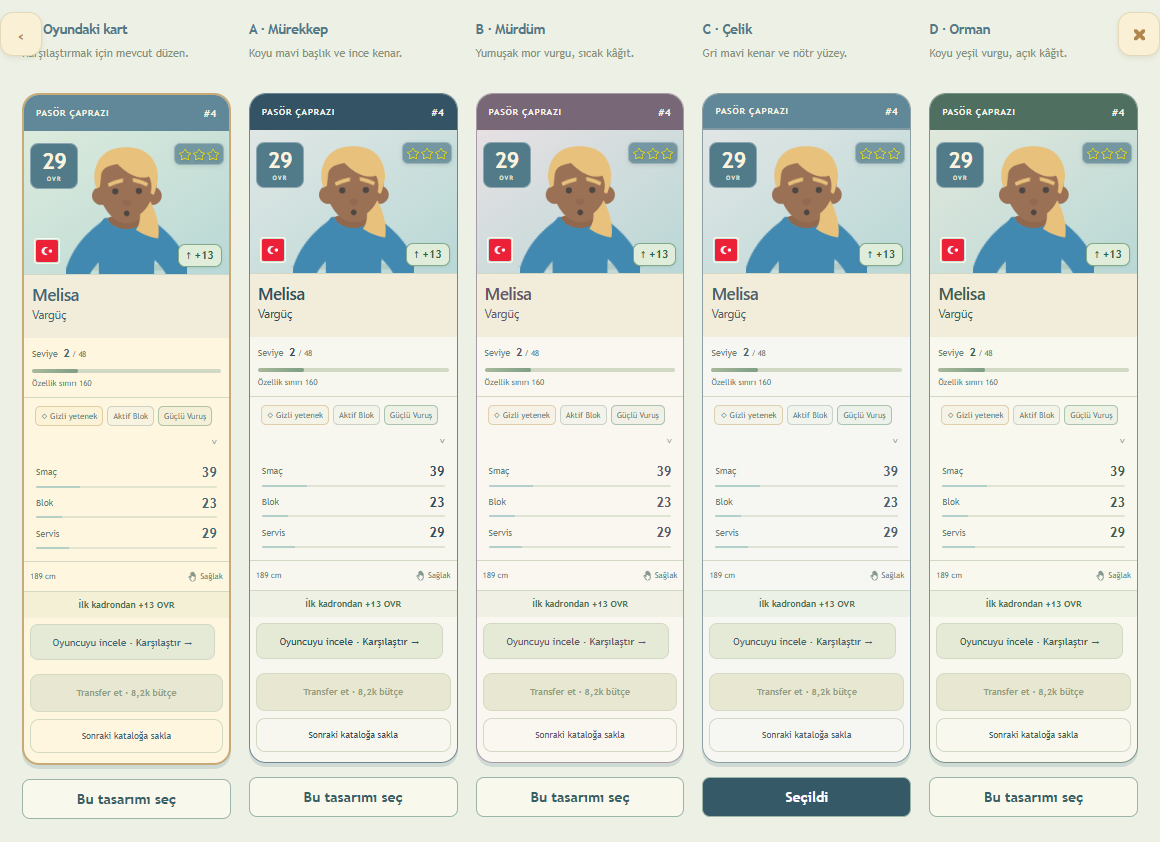
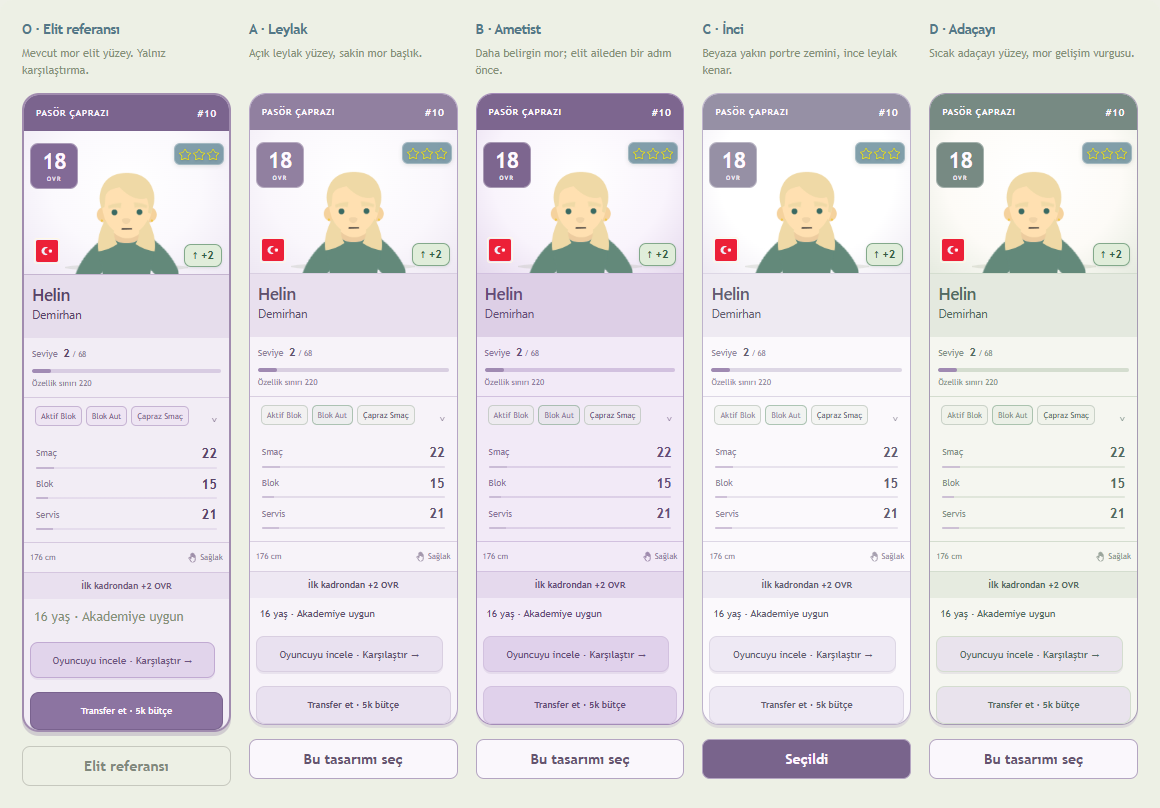
Refresh design lab with young-potential card alternatives

diff --git a/index.html b/index.html
@@ -18,4 +18,4 @@
 <span id="saveStatus" hidden></span></aside></div>
 <section id="teamPanel" hidden aria-labelledby="teamTitle"><div class="team-heading"><div><span class="eyebrow">KADRO KOLEKSİYONU</span><h1 id="teamTitle">Bizim takım</h1></div><span class="team-count" id="teamCount">7 / 7</span></div><section class="team-blackboard" aria-labelledby="blackboardTitle"><span class="eyebrow">MAÇ HAZIRLIĞI</span><h2 id="blackboardTitle">Kara Tahta</h2><aside id="blackboardAdvice" class="blackboard-advice" aria-live="polite"></aside></section><section id="campPanel" class="camp-panel" hidden aria-labelledby="campTitle"><div class="camp-heading"><h2 id="campTitle">Antrenman Kampı</h2><span id="campWallet"></span></div><p id="campStatus" role="status"></p><div id="campSlots" class="camp-slots"></div><div id="campSelection" hidden><p>Kampa göndereceğin oyuncuyu seç.</p><div id="campCandidates" class="camp-candidates"></div><p id="campQuote"></p><button id="campEnroll" class="team-action" type="button" disabled>Kampa gönder</button></div><p id="campNotice" role="status"></p></section><div class="lineup-banner"><strong>MAÇ KADROSU</strong><span>6 oyuncu + libero</span></div><div id="activeTeam" class="team-grid"></div><section id="benchSection"><div class="bench-heading"><h2>Yedek kulübesi</h2><span id="benchCount"></span></div><label class="bench-filter">Pozisyon <select id="benchFilter"><option value="all">Tüm oyuncular</option><option value="setter">Pasör</option><option value="outside">Smaçör</option><option value="opposite">Pasör çaprazı</option><option value="middle">Orta oyuncu</option><option value="libero">Libero</option></select></label><div id="benchCards" class="team-grid"></div><p id="benchEmpty" hidden>Bu pozisyonda yedek oyuncu yok.</p></section><p id="teamNotice" role="status"></p></section><section id="leaguePanel" hidden><div class="team-heading"><div><span class="eyebrow">MAHALLE SPOR KULÜBÜ – YEREL ALTYAPI</span><h1>Lig Merkezi</h1></div><button id="calendarNow" class="calendar-now" hidden>Bugün</button></div><section class="season-hero"><span class="eyebrow">YEREL ALTYAPI · SEZON 0</span><h2>Mahallenin son umudu</h2><div class="season-facts"><span>8 takım</span><span>Son 5 maç</span><span>Hedef: ilk 4</span></div><div class="season-scoreline"><strong id="seasonPlace">—</strong><span>SIRALAMA<small id="seasonWins">0 galibiyet</small></span><strong id="seasonPoints">0</strong><span>PUAN<small id="seasonPlayed">0 / 5 maç</small></span></div><progress id="seasonProgress" value="0" max="5" aria-label="Tamamlanan kurtuluş maçları"></progress><p id="seasonStatus"></p></section><section id="prologueComplete" class="prologue-complete" hidden role="status"><span>✓</span><div><strong>Prolog tamamlandı!</strong><p id="prologueOutcome">Son beş maç tamamlandı.</p><small>Sezon sonuçları aşağıda.</small></div><button id="leagueJourneyButton" class="league-journey-button" type="button" hidden><span>Sıradaki lige geç</span><b aria-hidden="true">↗</b></button></section><p id="leagueSaveNotice" role="status"></p><div class="season-tabs" role="tablist" aria-label="Lig görünümü"><button id="standingsTab" type="button" role="tab" aria-selected="true" aria-controls="standingsPane">Puan durumu</button><button id="fixturesTab" type="button" role="tab" aria-selected="false" aria-controls="fixturesPane" tabindex="-1">Fikstür</button><button id="playersTab" type="button" role="tab" aria-selected="false" aria-controls="playersPane" tabindex="-1">Oyuncular</button><button id="datesTab" type="button" role="tab" aria-selected="false" aria-controls="datesPane" tabindex="-1">Takvim</button></div><section id="playersPane" role="tabpanel" aria-labelledby="playersTab" hidden></section><section id="standingsPane" role="tabpanel" aria-labelledby="standingsTab"><div class="standings-heading"><h2>Lig sıralaması</h2><span id="standingsState">Sezon başlıyor</span></div><div class="standings-scroll"><table class="standings-table"><caption class="sr-only">Mahalle Spor Kulübü – Yerel Altyapı puan durumu</caption><thead><tr><th scope="col">#</th><th scope="col">Takım</th><th scope="col"><abbr title="Oynanan">O</abbr></th><th scope="col"><abbr title="Galibiyet">G</abbr></th><th scope="col"><abbr title="Mağlubiyet">M</abbr></th><th scope="col">P</th></tr></thead><tbody id="standingsRows"></tbody></table></div><p class="league-rule-note">Galibiyet: 3 puan. Mağlubiyet: 0 puan. Eşitlik sırası: galibiyet, sayı farkı, atılan sayı. Hepsi eşitse sıra paylaşılır.</p><p id="standingsPending" class="league-rule-note"></p></section><section id="fixturesPane" role="tabpanel" aria-labelledby="fixturesTab" hidden><h2 class="season-route-title">Kulübün sezon yolu</h2><div id="seasonRoute" class="season-route"></div><div class="round-controls"><button id="previousRound" type="button" aria-label="Önceki hafta">‹</button><div><strong id="roundLabel"></strong><small id="roundDate"></small></div><button id="nextRound" type="button" aria-label="Sonraki hafta">›</button></div><div id="roundFixtures"></div></section><section id="datesPane" role="tabpanel" aria-labelledby="datesTab" hidden><p id="leagueToday" class="team-hint"></p><div class="month-panel"><div class="month-controls"><button id="previousMonth" aria-label="Önceki ay">‹</button><h2 id="leagueMonth"></h2><button id="nextMonth" aria-label="Sonraki ay">›</button></div><div class="weekday-labels"><span>Pzt</span><span>Sal</span><span>Çar</span><span>Per</span><span>Cum</span><span>Cmt</span><span>Paz</span></div><div id="leagueDates"></div><div class="month-legend"><span>● Lig maçları</span><span>Çerçeve: bugün</span></div></div><div class="bench-heading"><h2 id="fixtureDate"></h2><span>FİKSTÜR</span></div><div id="fixtureList"></div><p id="noFixtures" class="team-hint"></p></section></section></main></div></div>
 <nav class="mobile-nav" aria-label="Mobil gezinme"><a href="#clubPanel"><span>⌂</span>Kulüp</a><a id="teamTab" href="#teamPanel"><span>♟</span>Takım</a><a id="calendarTab" href="#leaguePanel"><span>▦</span>Lig<small id="leagueNavStatus"></small></a></nav><dialog id="seasonEndDialog" class="season-end-dialog" aria-labelledby="seasonEndTitle"><span class="season-trophy" aria-hidden="true"><svg viewBox="0 0 64 64" fill="none" aria-hidden="true"><path d="M18 8h28v15a14 14 0 0 1-28 0V8Z" fill="currentColor"/><path d="M18 12H8v7c0 9 5 14 14 14M46 12h10v7c0 9-5 14-14 14" stroke="currentColor" stroke-width="5" stroke-linejoin="round"/><path d="M29 36h6v13h-6zM20 49h24v6H20zM16 55h32v5H16z" fill="currentColor"/><path d="m32 13 2 5 5 .4-4 3.4 1.3 5.2-4.3-2.8-4.3 2.8 1.3-5.2-4-3.4 5-.4 2-5Z" fill="#fff4d4"/></svg></span><p class="eyebrow">İLK SEZON TAMAMLANDI</p><h2 id="seasonEndTitle">Prolog bitti!</h2><p id="seasonEndText"></p><div class="season-end-stats"><div><strong id="endRankValue"></strong><small>SIRA</small></div><div><strong id="endWinValue"></strong><small>GALİBİYET</small></div><div><strong id="endPointsValue"></strong><small>PUAN</small></div></div><button id="inspectSeason" class="team-action" type="button">Sezonu incele</button><button id="closeSeasonEnd" class="team-secondary" type="button">Kulübe dön</button></dialog><div id="rewardLayer" aria-hidden="true"></div><span id="tapRhythm" aria-hidden="true"></span><div id="toast" class="toast" role="status" aria-live="polite"></div><dialog id="matchDialog"><button id="closeMatch" class="close-dialog" aria-label="Kapat">×</button><div class="match-emblem">↗</div><p class="eyebrow">BUGÜN SAHNE SENİN</p><h2>Maç günü!</h2><p id="matchMessage">Kadronu seç ve maça başla.</p><button id="laterMatch" class="dialog-later">Kulüpte devam et</button></dialog>
-<dialog id="roomDialog"><button id="closeRoom" class="close-dialog" aria-label="Kapat">×</button><p class="eyebrow">YENİ BLOK</p><h2>Bu alan senin.</h2><p id="roomSelectionInfo"></p><div id="roomChoices"></div><p class="room-modal-note">Yükseltmek için kurulu bloğa dokun.</p></dialog><dialog id="settingsDialog"><button id="closeSettings" class="close-dialog" aria-label="Kapat">×</button><h2>Ayarlar</h2><div class="settings-row"><span>Hızlı Test (Saniyede 100x Tıklama)</span><button id="testAutoclicker" class="team-action" type="button" style="margin:0;padding:4px 12px">Başlat</button></div><div class="settings-row"><span>Tüm sesler</span><button id="soundToggle" class="sound-toggle" type="button" aria-label="Efekt seslerini kapat" aria-pressed="true">♪</button></div><div class="settings-row"><span>Titreşim</span><button id="vibrationToggle" class="sound-toggle vibration-toggle" type="button" aria-label="Titreşimi kapat" aria-pressed="true">Açık</button></div><label class="settings-row">Müzik <input id="volume-music" type="range" min="0" max="100" aria-label="Müzik seviyesi"></label><label class="settings-row">Tribün <input id="volume-crowd" type="range" min="0" max="100" aria-label="Tribün seviyesi"></label><label class="settings-row">Top sesleri <input id="volume-effects" type="range" min="0" max="100" aria-label="Top sesleri seviyesi"></label><div class="reset-section"><button id="resetProgress" class="reset-progress" type="button">İlerlemeyi sıfırla</button><p>Kayıtları ve ayarları siler. Oyun baştan başlar.</p></div></dialog><dialog id="gameMatchDialog" class="game-match-dialog"><div class="match-shellbar"><button id="exitGameMatch" class="match-exit" title="Kalan maçı hesapla ve sonucu göster">Maçı atla</button></div><section id="matchWatchPrompt" class="match-watch-prompt" hidden><span class="eyebrow">MAÇ GÜNÜ</span><h2>Maça hazır mısın?</h2><p>Maç öncesi kadronu kontrol et.</p><div id="preMatchStage"></div><div id="preMatchPicker" hidden></div><p id="preMatchNotice" role="status"></p><button id="editMatchTeam" class="team-secondary" type="button" hidden aria-label="Kadroyu düzenle"></button><button id="watchMatch" class="team-action">Kadroyu onayla · Maçı izle</button><button id="skipMatch" class="team-secondary">Sonucu göster</button></section><iframe id="gameMatchFrame" title="Voleybol maçı"></iframe></dialog><dialog id="playerDialog"><button id="closePlayer" class="close-dialog" aria-label="Kapat">×</button><span id="playerRole" class="eyebrow"></span><h2 id="playerName"></h2><img id="detailArt" alt=""><details id="playerAttributes" open><summary>Tüm özellikler</summary><div id="playerStats"></div></details><section class="development-panel"><div class="development-heading"><h3>Oyuncu gelişimi</h3><b id="trainingBalance">0 AP</b></div><p class="development-note">AP ile kartını yükselt.</p><div id="trainingStats"></div><section><h3>Voleybol yetenekleri</h3><div id="playerSkills"></div></section><p id="trainingNotice" role="status"></p></section><label class="equip-label">Kadro slotu<select id="equipSlot"></select></label><button id="equipPlayer" class="team-action">Kadroya al</button><button id="benchPlayer" class="team-secondary">Yedeğe al</button></dialog><dialog id="renameDialog"><form id="renameForm"><h2>Oyuncu adı</h2><input id="renameId" type="hidden"><label class="equip-label">Ad<input id="firstName" maxlength="24" required autocomplete="off"></label><label class="equip-label">Soyad<input id="lastName" maxlength="24" required autocomplete="off"></label><button class="team-action" type="submit">Kaydet</button><button id="cancelRename" class="team-secondary" type="button">Vazgeç</button></form></dialog><script src="team-asset-data.js?v=b7756503f39e"></script><script src="hair-colors.js?v=abe7abc4d901"></script><script src="country-name-data.js?v=cc0064760737"></script><script src="country-rules.js?v=73bc7aad9157"></script><script src="club-country-data.js?v=9c3da58d9b15"></script><script src="team-appearance.js?v=62a57122f8ec"></script><script src="elite-looks.js?v=f61e7b01cd55"></script><script src="social-journey-rules.js?v=cd50bd289df6"></script><script src="camp-rules.js?v=8d413f47fe6c"></script><script src="player-skills.js?v=105e670511c2"></script><script src="rival-styles.js?v=a43c42c91007"></script><script src="team-rules.js?v=aa3de59c3d1d"></script><script src="card-upgrade.js?v=833315b60951"></script><script src="player-skill-ui.js?v=3016ae06be86"></script><script src="team.js?v=43ed9f2953e8"></script><script src="match-rules.js?v=af214ea4e2ed"></script><script src="league-rules.js?v=72a9a5ea7aa8"></script><script src="league-calendar.js?v=d84ac7d3d781"></script><script src="league-season.js?v=6d6c07347769"></script><script src="slot-chime.js?v=b0a8b8586383"></script><script src="game-audio.js?v=98a6ba18b588"></script><script src="card-motion.js?v=87f8bcc3a05d"></script><script src="bal-visual.js?v=07a9449cb5b6"></script><script src="bal-rules.js?v=60f18456b5ca"></script><script src="scout-rules.js?v=771f76d9e8fb"></script><script src="shift-rules.js?v=a33a4ab2512c"></script><script src="overtime-rules.js?v=11a5f31757e3"></script><script src="academy-career-rules.js?v=829bbd3d214a"></script><script src="room-rules.js?v=f146eafaeecb"></script><script src="foundation-blocks.js?v=58566611813d"></script><script src="rooms.js?v=0b1530b8ac5f"></script><script src="menu-state.js?v=dd9f6dcb1b38"></script><script src="menu-feedback.js?v=088759698253"></script><script src="pre-match.js?v=16668a840b99"></script><script src="match-intro.js?v=271fc707f1b7"></script><script src="match-screen-awake.js?v=9c137f7942d2"></script><script src="match-gateway.js?v=1bcfa1570e15"></script><script src="legendary-unlock-preview.js?v=2eab31424c5d"></script><script src="camps.js?v=6e5d06f04cf6"></script><script src="flow-lanes.js?v=76419d083d78"></script><script src="menu.js?v=bedc9dc5ecb4"></script><script src="board-doodles.js?v=b3e832e167b9"></script><script src="board-presentation.js?v=7c6752ae1d6e"></script><script src="blackboard.js?v=74b17ca96a53"></script><dialog id="resetDialog"><h2>Baştan başlayalım mı?</h2><p>Tüm ilerlemen ve ayarların silinecek. Bu işlem geri alınamaz.</p><button id="confirmReset" class="reset-progress" type="button">Evet, ilerlemeyi sıfırla</button><button id="cancelReset" class="team-secondary" type="button">Vazgeç</button><p id="resetError" role="alert"></p></dialog><script src="reset-progress.js?v=5c10df8659cd"></script><script src="boot.js?v=d6b5180b3915"></script><script src="point-music-data.js?v=c17f7544278b"></script><script src="match-court-surface.js?v=57b3f03b5b57"></script><script src="ui-components.js?v=24cc8586e565"></script><script src="court-picker.js?v=cda5867da7ac"></script><script src="volleyball-balls.js?v=cf69563ec0ad"></script><script src="player-profile.js?v=a02d065076a0"></script><script src="onboarding.js?v=246a17873d9a"></script><script src="crest-symbols-data.js?v=57c7d58a002d"></script><script src="club-journey.js?v=f5f786ae034c"></script><script src="bal-stage.js?v=cea6cc931452"></script><script src="scouting.js?v=eec202fa935e"></script><script src="match-arrival.js?v=cc0073355527"></script><script src="club-pan.js?v=e716b8bb87de"></script><script src="settings-ui.js?v=6e1a8e9fcb46"></script><script src="achievement-stage-metrics.js?v=bb98236606b0"></script><script src="achievements.js?v=8a557c4d81a3"></script><script src="social-studio-rules.js?v=848defa4495b"></script><script src="social-studio.js?v=56b1ce26036e"></script><script src="social-journey.js?v=0ec2ea07be91"></script><script src="social-follower-counter.js?v=9d657ccee2d2"></script><script src="social-like-counter.js?v=6d885d3d4a18"></script><script src="division-three.js?v=8c4ee44965b0"></script><script src="league-players.js?v=13030979f079"></script><script src="stage-test.js?v=9d85c0e50659"></script><script src="epic-team.js?v=73c58df320e2"></script><script src="next-match-card.js?v=44d61d1106d7"></script><script src="tutorial-review.js?v=cf8af4919f5f"></script><script src="ui-icons-data.js?v=6804bbcfcd59"></script><script src="ui-icons.js?v=fc006f2718db"></script><script src="progression-visuals.js?v=6649a6630506"></script><script src="flow-preview-runtime.js?v=baedb2ade5ad"></script><script src="elite-design-preview.js?v=7abe5ee752d7"></script><script src="academy-rules.js?v=028240ae77fa"></script><script src="academy-ball-picker.js?v=d6e6410723f6"></script><script src="academy-preview.js?v=c08fed03dc41"></script><script src="first-league.js?v=3414604357e8"></script><script src="academy-career.js?v=d70b9c872f27"></script></body></html>
+<dialog id="roomDialog"><button id="closeRoom" class="close-dialog" aria-label="Kapat">×</button><p class="eyebrow">YENİ BLOK</p><h2>Bu alan senin.</h2><p id="roomSelectionInfo"></p><div id="roomChoices"></div><p class="room-modal-note">Yükseltmek için kurulu bloğa dokun.</p></dialog><dialog id="settingsDialog"><button id="closeSettings" class="close-dialog" aria-label="Kapat">×</button><h2>Ayarlar</h2><div class="settings-row"><span>Hızlı Test (Saniyede 100x Tıklama)</span><button id="testAutoclicker" class="team-action" type="button" style="margin:0;padding:4px 12px">Başlat</button></div><div class="settings-row"><span>Tüm sesler</span><button id="soundToggle" class="sound-toggle" type="button" aria-label="Efekt seslerini kapat" aria-pressed="true">♪</button></div><div class="settings-row"><span>Titreşim</span><button id="vibrationToggle" class="sound-toggle vibration-toggle" type="button" aria-label="Titreşimi kapat" aria-pressed="true">Açık</button></div><label class="settings-row">Müzik <input id="volume-music" type="range" min="0" max="100" aria-label="Müzik seviyesi"></label><label class="settings-row">Tribün <input id="volume-crowd" type="range" min="0" max="100" aria-label="Tribün seviyesi"></label><label class="settings-row">Top sesleri <input id="volume-effects" type="range" min="0" max="100" aria-label="Top sesleri seviyesi"></label><div class="reset-section"><button id="resetProgress" class="reset-progress" type="button">İlerlemeyi sıfırla</button><p>Kayıtları ve ayarları siler. Oyun baştan başlar.</p></div></dialog><dialog id="gameMatchDialog" class="game-match-dialog"><div class="match-shellbar"><button id="exitGameMatch" class="match-exit" title="Kalan maçı hesapla ve sonucu göster">Maçı atla</button></div><section id="matchWatchPrompt" class="match-watch-prompt" hidden><span class="eyebrow">MAÇ GÜNÜ</span><h2>Maça hazır mısın?</h2><p>Maç öncesi kadronu kontrol et.</p><div id="preMatchStage"></div><div id="preMatchPicker" hidden></div><p id="preMatchNotice" role="status"></p><button id="editMatchTeam" class="team-secondary" type="button" hidden aria-label="Kadroyu düzenle"></button><button id="watchMatch" class="team-action">Kadroyu onayla · Maçı izle</button><button id="skipMatch" class="team-secondary">Sonucu göster</button></section><iframe id="gameMatchFrame" title="Voleybol maçı"></iframe></dialog><dialog id="playerDialog"><button id="closePlayer" class="close-dialog" aria-label="Kapat">×</button><span id="playerRole" class="eyebrow"></span><h2 id="playerName"></h2><img id="detailArt" alt=""><details id="playerAttributes" open><summary>Tüm özellikler</summary><div id="playerStats"></div></details><section class="development-panel"><div class="development-heading"><h3>Oyuncu gelişimi</h3><b id="trainingBalance">0 AP</b></div><p class="development-note">AP ile kartını yükselt.</p><div id="trainingStats"></div><section><h3>Voleybol yetenekleri</h3><div id="playerSkills"></div></section><p id="trainingNotice" role="status"></p></section><label class="equip-label">Kadro slotu<select id="equipSlot"></select></label><button id="equipPlayer" class="team-action">Kadroya al</button><button id="benchPlayer" class="team-secondary">Yedeğe al</button></dialog><dialog id="renameDialog"><form id="renameForm"><h2>Oyuncu adı</h2><input id="renameId" type="hidden"><label class="equip-label">Ad<input id="firstName" maxlength="24" required autocomplete="off"></label><label class="equip-label">Soyad<input id="lastName" maxlength="24" required autocomplete="off"></label><button class="team-action" type="submit">Kaydet</button><button id="cancelRename" class="team-secondary" type="button">Vazgeç</button></form></dialog><script src="team-asset-data.js?v=b7756503f39e"></script><script src="hair-colors.js?v=abe7abc4d901"></script><script src="country-name-data.js?v=cc0064760737"></script><script src="country-rules.js?v=73bc7aad9157"></script><script src="club-country-data.js?v=9c3da58d9b15"></script><script src="team-appearance.js?v=62a57122f8ec"></script><script src="elite-looks.js?v=f61e7b01cd55"></script><script src="social-journey-rules.js?v=cd50bd289df6"></script><script src="camp-rules.js?v=8d413f47fe6c"></script><script src="player-skills.js?v=105e670511c2"></script><script src="rival-styles.js?v=a43c42c91007"></script><script src="team-rules.js?v=aa3de59c3d1d"></script><script src="card-upgrade.js?v=833315b60951"></script><script src="player-skill-ui.js?v=3016ae06be86"></script><script src="team.js?v=43ed9f2953e8"></script><script src="match-rules.js?v=af214ea4e2ed"></script><script src="league-rules.js?v=72a9a5ea7aa8"></script><script src="league-calendar.js?v=d84ac7d3d781"></script><script src="league-season.js?v=6d6c07347769"></script><script src="slot-chime.js?v=b0a8b8586383"></script><script src="game-audio.js?v=98a6ba18b588"></script><script src="card-motion.js?v=87f8bcc3a05d"></script><script src="bal-visual.js?v=07a9449cb5b6"></script><script src="bal-rules.js?v=60f18456b5ca"></script><script src="scout-rules.js?v=771f76d9e8fb"></script><script src="shift-rules.js?v=a33a4ab2512c"></script><script src="overtime-rules.js?v=11a5f31757e3"></script><script src="academy-career-rules.js?v=829bbd3d214a"></script><script src="room-rules.js?v=f146eafaeecb"></script><script src="foundation-blocks.js?v=58566611813d"></script><script src="rooms.js?v=0b1530b8ac5f"></script><script src="menu-state.js?v=dd9f6dcb1b38"></script><script src="menu-feedback.js?v=088759698253"></script><script src="pre-match.js?v=16668a840b99"></script><script src="match-intro.js?v=271fc707f1b7"></script><script src="match-screen-awake.js?v=9c137f7942d2"></script><script src="match-gateway.js?v=1bcfa1570e15"></script><script src="legendary-unlock-preview.js?v=2eab31424c5d"></script><script src="camps.js?v=6e5d06f04cf6"></script><script src="flow-lanes.js?v=76419d083d78"></script><script src="menu.js?v=bedc9dc5ecb4"></script><script src="board-doodles.js?v=b3e832e167b9"></script><script src="board-presentation.js?v=7c6752ae1d6e"></script><script src="blackboard.js?v=74b17ca96a53"></script><dialog id="resetDialog"><h2>Baştan başlayalım mı?</h2><p>Tüm ilerlemen ve ayarların silinecek. Bu işlem geri alınamaz.</p><button id="confirmReset" class="reset-progress" type="button">Evet, ilerlemeyi sıfırla</button><button id="cancelReset" class="team-secondary" type="button">Vazgeç</button><p id="resetError" role="alert"></p></dialog><script src="reset-progress.js?v=5c10df8659cd"></script><script src="boot.js?v=d6b5180b3915"></script><script src="point-music-data.js?v=c17f7544278b"></script><script src="match-court-surface.js?v=57b3f03b5b57"></script><script src="ui-components.js?v=24cc8586e565"></script><script src="court-picker.js?v=cda5867da7ac"></script><script src="volleyball-balls.js?v=cf69563ec0ad"></script><script src="player-profile.js?v=a02d065076a0"></script><script src="onboarding.js?v=246a17873d9a"></script><script src="crest-symbols-data.js?v=57c7d58a002d"></script><script src="club-journey.js?v=f5f786ae034c"></script><script src="bal-stage.js?v=cea6cc931452"></script><script src="scouting.js?v=eec202fa935e"></script><script src="match-arrival.js?v=cc0073355527"></script><script src="club-pan.js?v=e716b8bb87de"></script><script src="settings-ui.js?v=6e1a8e9fcb46"></script><script src="achievement-stage-metrics.js?v=bb98236606b0"></script><script src="achievements.js?v=8a557c4d81a3"></script><script src="social-studio-rules.js?v=848defa4495b"></script><script src="social-studio.js?v=56b1ce26036e"></script><script src="social-journey.js?v=0ec2ea07be91"></script><script src="social-follower-counter.js?v=9d657ccee2d2"></script><script src="social-like-counter.js?v=6d885d3d4a18"></script><script src="division-three.js?v=8c4ee44965b0"></script><script src="league-players.js?v=13030979f079"></script><script src="stage-test.js?v=9d85c0e50659"></script><script src="epic-team.js?v=73c58df320e2"></script><script src="next-match-card.js?v=44d61d1106d7"></script><script src="tutorial-review.js?v=cf8af4919f5f"></script><script src="ui-icons-data.js?v=6804bbcfcd59"></script><script src="ui-icons.js?v=fc006f2718db"></script><script src="progression-visuals.js?v=6649a6630506"></script><script src="flow-preview-runtime.js?v=baedb2ade5ad"></script><script src="elite-design-preview.js?v=56ffe8faa9a3"></script><script src="academy-rules.js?v=028240ae77fa"></script><script src="academy-ball-picker.js?v=d6e6410723f6"></script><script src="academy-preview.js?v=c08fed03dc41"></script><script src="first-league.js?v=3414604357e8"></script><script src="academy-career.js?v=d70b9c872f27"></script></body></html>

diff --git a/elite-design-preview.css b/elite-design-preview.css
@@ -1,9 +1,16 @@
 html.elite-preview-page,html.elite-preview-page body{background:#edf0e5!important;min-width:0;overflow:auto!important}html.elite-preview-page body>:not(#scoutDialog):not(script):not(style){display:none!important}
 html.elite-preview-page #scoutDialog{position:relative!important;inset:auto!important;max-width:none!important;width:100%!important;max-height:none!important;height:auto!important;margin:0!important;border:0!important;border-radius:0!important;padding:0!important;box-shadow:none!important;background:#edf0e5!important;overflow:visible!important}html.elite-preview-page #scoutDialog::backdrop{background:#edf0e5}
-#eliteOptions{display:grid;grid-template-columns:repeat(5,minmax(0,1fr));align-items:start;gap:18px;margin:0 auto;padding:22px;max-width:1240px;color:#365968}#eliteOptions article{min-width:0}#eliteOptions h2{font-size:14px;margin:0 0 8px}#eliteOptions article>p{font-size:11px;min-height:34px;line-height:1.5;margin:0 0 14px}#eliteOptions .elite-pick{margin-top:14px;width:100%;min-height:40px;border:1px solid #9bb5ab;border-radius:8px;background:#f9f8ed;color:#385e66;font-weight:600;cursor:pointer}#eliteOptions .elite-pick[aria-pressed=true]{background:#365968;color:white}
+html.elite-preview-page #scoutDialog :is(.transfer-nav-rail,.dialog-nav-control){display:none!important}
+#eliteOptions{display:grid;grid-template-columns:repeat(5,minmax(0,1fr));align-items:start;gap:18px;margin:0 auto;padding:22px;max-width:1240px;color:#365968}#eliteOptions article{min-width:0}#eliteOptions h2{font-size:14px;margin:0 0 8px}#eliteOptions article>p{font-size:11px;min-height:34px;line-height:1.5;margin:0 0 14px}#eliteOptions .elite-pick{margin-top:14px;width:100%;min-height:40px;border:1px solid #b4a5c2;border-radius:8px;background:#faf7fc;color:#65536f;font-weight:600;cursor:pointer}#eliteOptions .elite-pick[aria-pressed=true]{background:#79648c;color:#fff8ff}#eliteOptions .elite-pick:disabled{border-color:#c6c8be;background:transparent;color:#7f887c;cursor:default}
 #scoutDialog #eliteOptions .player-card{width:100%;min-width:0;max-width:none;margin:0;transform:none;--growth-edge:transparent;--growth-light:transparent}#eliteOptions .player-card::after{box-shadow:none!important}
-#scoutDialog #eliteOptions .option-A .player-card{--club-paper:#f8f7ef;--club-soft:#e0e7e5;--club-ink:#304f5d;--club-edge:#6d8793;--club-gold:#b2c9ce;border:1.5px solid #6d8793!important}#scoutDialog #eliteOptions .option-A .card-top{background:#345364!important;color:#eff3eb!important}#eliteOptions .option-A .card-top b{color:#eff3eb!important}
-#scoutDialog #eliteOptions .option-B .player-card{--club-paper:#faf6f0;--club-soft:#e7e0e3;--club-ink:#655568;--club-edge:#a69aa6;--club-gold:#d8c5d3;border:1.5px solid #a69aa6!important}#scoutDialog #eliteOptions .option-B .card-top{background:#786777!important;color:#f7f0eb!important}#eliteOptions .option-B .card-top b{color:#f7f0eb!important}
-#scoutDialog #eliteOptions .option-C .player-card{--club-paper:#f6f7f3;--club-soft:#e1e6e5;--club-ink:#4b616b;--club-edge:#8b9fa4;--club-gold:#bdcdd2;border:1.5px solid #8b9fa4!important}#scoutDialog #eliteOptions .option-C .card-top{border-bottom:2px solid #8099a2!important}
-#scoutDialog #eliteOptions .option-D .player-card{--club-paper:#f8f8ee;--club-soft:#e1e8dc;--club-ink:#3f5d50;--club-edge:#799386;--club-gold:#bdcfb7;border:1.5px solid #799386!important}#scoutDialog #eliteOptions .option-D .card-top{background:#4f6f60!important;color:#f5f4e9!important}#eliteOptions .option-D .card-top b{color:#f5f4e9!important}
+/* Preserve the native card anatomy and lower the portrait's baseline. */
+#scoutDialog #eliteOptions .card-art{height:143px;overflow:hidden}#scoutDialog #eliteOptions .card-art>img{width:100%;height:100%;object-fit:contain!important;object-position:center bottom!important;transform:translateY(8px) scale(.86);transform-origin:center bottom}
+#scoutDialog #eliteOptions .potential-player{--club-kit:#9180a0;--club-paper:#f7f3f9;--club-soft:#eee8f3;--club-name:#e9e0ee;--club-port:#faf7fc;--club-ink:#61516e;--club-muted:#8e8199;--club-line:#d9cfe1;--club-action:#e9e1f0;--club-edge:#b6a5c6;border:1.5px solid var(--club-edge)!important;box-shadow:0 3px #b6a5c64a!important}
+#scoutDialog #eliteOptions .potential-player .card-art{background:radial-gradient(ellipse at 50% 32%,#fff 0%,var(--club-port) 60%,var(--club-soft) 100%)!important}#scoutDialog #eliteOptions .potential-player .card-halo{background:transparent;border-color:#e4daec}
+#scoutDialog #eliteOptions .potential-player .card-top{background:var(--club-kit)!important;color:#fffaff!important}#scoutDialog #eliteOptions .potential-player .card-top b{color:#fffaff!important}#scoutDialog #eliteOptions .potential-player .card-name{background:var(--club-name)!important}#scoutDialog #eliteOptions .potential-player .player-overall{background:var(--club-kit)!important;color:#fffaff!important}#scoutDialog #eliteOptions .potential-player .player-overall small{color:#f2edf6!important}
+#scoutDialog #eliteOptions .potential-player .card-cap-meter i{background:#a08ab2}#scoutDialog #eliteOptions .potential-player .card-stats i{background:linear-gradient(to right,#b6a3c5 var(--stat),var(--club-line) var(--stat))}#scoutDialog #eliteOptions .potential-player .card-physical{border-color:var(--club-line)!important}#scoutDialog #eliteOptions .potential-player .transfer-fit{background:var(--club-soft)!important;color:var(--club-ink)!important;border-color:var(--club-line)!important}
+#scoutDialog #eliteOptions .potential-player :is(.scout-hire,.scout-compare){background:var(--club-action)!important;color:var(--club-ink)!important;border-color:var(--club-line)!important;box-shadow:0 2px #9a87ac26!important}#scoutDialog #eliteOptions .potential-player .academy-prospect-note{color:var(--club-ink);font-size:10px}
+#scoutDialog #eliteOptions .option-B .potential-player{--club-kit:#7d668f;--club-paper:#f2eaf7;--club-soft:#e5d9ed;--club-name:#ddcfe6;--club-port:#f9f4fc;--club-ink:#654c78;--club-muted:#8a739a;--club-line:#d2c1df;--club-action:#e0d1eb;--club-edge:#a48bb8}
+#scoutDialog #eliteOptions .option-C .potential-player{--club-kit:#9690a5;--club-paper:#fbf9fc;--club-soft:#eeeaf3;--club-name:#eeeaf2;--club-port:#fff;--club-ink:#635c71;--club-muted:#91899c;--club-line:#ddd7e5;--club-action:#eee9f4;--club-edge:#beb3cc}
+#scoutDialog #eliteOptions .option-D .potential-player{--club-kit:#778a83;--club-paper:#f5f6f0;--club-soft:#e6ebe0;--club-name:#e4e9df;--club-port:#fdfbf7;--club-ink:#526b62;--club-muted:#839086;--club-line:#d4ddcf;--club-action:#e9e3ed;--club-edge:#a69ab4}
 @media(max-width:760px){#eliteOptions{grid-template-columns:repeat(2,minmax(0,1fr));padding:14px;gap:20px 12px}}

diff --git a/elite-design-preview.js b/elite-design-preview.js
@@ -1,2 +1,20 @@
-(function(){if(!new URLSearchParams(location.search).has('eliteDesignPreview'))return;
-addEventListener('load',()=>setTimeout(()=>{for(const d of document.querySelectorAll('dialog[open]'))d.close();RoomSystem.setAutoClick(()=>{});const s=BalRules.enter(RoomRules.defaults(),1);s.division=3;s.openDepartments=[2,4];s.instructions=15000;s.floors[4]=[...Array(5).fill('bal_search'),...Array(10).fill('bal_contacts'),...Array(5).fill('bal_talent')];s.floors[3]=[...Array(10).fill('pro_scout'),...Array(5).fill('pro_search')];s.scouting.firstTransferUsed=true;s.scouting.startedInstructions=0;ScoutRules.report(s,TeamRules.generate,()=>0,TeamRules.players);const p=s.scouting.catalog.find(c=>c.player.specialCharacter==='melisa-varguc')?.player;if(!p)return;RoomSystem.loadStage(s);localStorage.setItem('idle-spiker-scout-opened-v1',s.scouting.catalog.map(c=>c.id).join('|'));Scouting.open();document.getElementById('homeCurrentCatalog').click();const original=[...document.querySelectorAll('.scout-player')].find(el=>el.textContent.includes('Melisa'));if(!original)return;const dialog=document.getElementById('scoutDialog');const host=document.createElement('main');host.id='eliteOptions';const families=[['O','Oyundaki kart','Karşılaştırmak için mevcut düzen.'],['A','Mürekkep','Koyu mavi başlık ve ince kenar.'],['B','Mürdüm','Yumuşak mor vurgu, sıcak kâğıt.'],['C','Çelik','Gri mavi kenar ve nötr yüzey.'],['D','Orman','Koyu yeşil vurgu, açık kâğıt.']];for(const [id,name,copy] of families){const article=document.createElement('article');article.className='option-'+id;const h=document.createElement('h2');h.textContent=id+' · '+name;const note=document.createElement('p');note.textContent=copy;const card=original.cloneNode(true);card.classList.remove('elite-player');card.removeAttribute('data-growth-band');card.querySelector('.card-grade')?.remove();card.querySelectorAll('button').forEach(b=>{b.disabled=true;b.tabIndex=-1;});const pick=document.createElement('button');pick.type='button';pick.className='elite-pick';pick.textContent='Bu tasarımı seç';pick.onclick=()=>{host.querySelectorAll('.elite-pick').forEach(b=>{b.setAttribute('aria-pressed',String(b===pick));b.textContent=b===pick?'Seçildi':'Bu tasarımı seç';});parent.postMessage({type:'elite-design-choice',name:id+' · '+name},'*');};article.append(h,note,card,pick);host.append(article);}const originalUI=document.createElement('div');originalUI.hidden=true;originalUI.append(...dialog.childNodes);dialog.append(originalUI,host);document.documentElement.classList.add('elite-preview-page');const style=document.createElement('link');style.rel='stylesheet';style.href='elite-design-preview.css';document.head.append(style);},650));})();
+(function(){
+'use strict';if(!new URLSearchParams(location.search).has('eliteDesignPreview'))return;
+addEventListener('load',()=>setTimeout(()=>{
+ for(const d of document.querySelectorAll('dialog[open]'))d.close();RoomSystem.setAutoClick(()=>{});
+ const s=BalRules.enter(RoomRules.defaults(),1);s.division=4;s.divisionCalendar=2;s.openDepartments=[2,4];s.budget=1000000;s.instructions=15000;s.floors[0]=['first_academy'];s.scouting.firstTransferUsed=true;
+ ScoutRules.report(s,()=>TeamRules.generate().map(p=>({...p,appearance:TeamAppearance.generate(Math.random,{country:p.nationality||CountryRules.current()})})),()=>.1,TeamRules.players);
+ const candidate=s.scouting.catalog.find(c=>AcademyCareerRules.eligible(c.player));if(!candidate)return;
+ LeagueSeason.loadStage({mode:'bal',division:4,divisionCalendar:2,startDay:1,run:4,results:{}});RoomSystem.loadStage(s);
+ localStorage.setItem('idle-spiker-scout-opened-v1',s.scouting.catalog.map(c=>c.id).join('|'));Scouting.open();document.getElementById('homeCurrentCatalog').click();
+ const original=document.querySelector('.scout-player[data-candidate-id="'+candidate.id+'"]');if(!original)return;
+ const dialog=document.getElementById('scoutDialog'),host=document.createElement('main');host.id='eliteOptions';host.dataset.purpose='academy-potential';
+ const families=[['O','Elit referansı','Mevcut mor elit yüzey. Yalnız karşılaştırma.'],['A','Leylak','Açık leylak yüzey, sakin mor başlık.'],['B','Ametist','Daha belirgin mor; elit aileden bir adım önce.'],['C','İnci','Beyaza yakın portre zemini, ince leylak kenar.'],['D','Adaçayı','Sıcak adaçayı yüzey, mor gelişim vurgusu.']];
+ for(const [id,name,copy]of families){
+  const article=document.createElement('article');article.className='option-'+id;const heading=document.createElement('h2');heading.textContent=id+' · '+name;const note=document.createElement('p');note.textContent=copy;
+  const card=original.cloneNode(true);card.classList.remove('elite-player','valuable-candidate');card.classList.add(id==='O'?'elite-player':'potential-player');card.dataset.designVariant=id;card.removeAttribute('data-growth-band');card.removeAttribute('data-candidate-id');card.querySelector('.card-grade')?.remove();card.querySelectorAll('button').forEach(b=>{b.disabled=true;b.tabIndex=-1;});
+  const pick=document.createElement('button');pick.type='button';pick.className='elite-pick';pick.textContent=id==='O'?'Elit referansı':'Bu tasarımı seç';pick.disabled=id==='O';pick.setAttribute('aria-pressed','false');pick.onclick=()=>{host.querySelectorAll('.elite-pick:not(:disabled)').forEach(b=>{b.setAttribute('aria-pressed',String(b===pick));b.textContent=b===pick?'Seçildi':'Bu tasarımı seç';});parent.postMessage({type:'elite-design-choice',name:id+' · '+name,kind:'academy-potential'},'*');};article.append(heading,note,card,pick);host.append(article);
+ }
+ const originalUI=document.createElement('div');originalUI.hidden=true;originalUI.append(...dialog.childNodes);dialog.append(originalUI,host);document.documentElement.classList.add('elite-preview-page');const style=document.createElement('link');style.rel='stylesheet';style.href='elite-design-preview.css';document.head.append(style);
+},650));
+})();

diff --git a/elite-design-lab.js b/elite-design-lab.js
@@ -1,3 +1,3 @@
 (function(){
-const section=document.createElement('section');section.id='elite-design-lab';section.className='wrap';section.style.cssText='scroll-margin-top:90px;margin:70px auto;padding:28px 0;border-top:1px solid #bdc9b6';section.innerHTML='<p>OYUNCU KARTLARI · ORİJİNAL KART + DÖRT ALTERNATİF</p><h2>Melisa Vargüç</h2><p>Oyundaki transfer kartı solda. Diğerlerinde aynı düzen, aynı portre ve aynı değerler korunur.</p><p id="eliteLabChoice" role="status"></p><iframe title="Oyuncu kartı alternatifleri" src="index.html?flowDesignPreview=1&eliteDesignPreview=1" loading="lazy" style="width:100%;height:1100px;border:0;border-radius:14px"></iframe>';document.body.append(section);const a=document.createElement('a');a.href='#elite-design-lab';a.textContent='Oyuncu kartı alternatifleri';document.querySelector('.navigation nav')?.append(a);addEventListener('message',e=>{if(e.source!==section.querySelector('iframe').contentWindow||e.data?.type!=='elite-design-choice')return;document.getElementById('eliteLabChoice').textContent='Seçimin: '+e.data.name;});if(location.hash==='#elite-design-lab')setTimeout(()=>section.scrollIntoView(),0);
+const section=document.createElement('section');section.id='elite-design-lab';section.className='wrap';section.style.cssText='scroll-margin-top:90px;margin:70px auto;padding:28px 0;border-top:1px solid #bdc9b6';section.innerHTML='<p>AKADEMİ · POTANSİYELLİ GENÇ KARTLARI</p><h2>Geleceğin elitleri</h2><p>Solda mevcut elit kart referansı; yanında aynı genç için dört potansiyel kartı. Karakterler biraz daha küçük ve aşağıda. Seçim yalnız tasarım dosyasında gösterilir.</p><p id="eliteLabChoice" role="status"></p><iframe title="Oyuncu kartı alternatifleri" src="index.html?flowDesignPreview=1&eliteDesignPreview=1" loading="lazy" style="width:100%;height:1100px;border:0;border-radius:14px"></iframe>';document.body.append(section);const a=document.createElement('a');a.href='#elite-design-lab';a.textContent='Potansiyelli genç kartları';document.querySelector('.navigation nav')?.append(a);addEventListener('message',e=>{if(e.source!==section.querySelector('iframe').contentWindow||e.data?.type!=='elite-design-choice')return;document.getElementById('eliteLabChoice').textContent='Seçimin: '+e.data.name;});if(location.hash==='#elite-design-lab')setTimeout(()=>section.scrollIntoView(),0);
 })();

diff --git a/DESIGN-SYSTEM.md b/DESIGN-SYSTEM.md
@@ -33,6 +33,11 @@ Son inceleme ve tutarlılık düzeltmeleri: 24 Ekim 2026. Bu dosya, kullanıcın
 18. Akademi mezunu aynı isim/portreyle gelir. Elit sonuç mevcut mor oyuncu kartını kullanır; beyaza yakın portre zemini ve aynı kart sırası korunur. Ayrı elit etiketi yok. Normal mezuniyet kayıp olarak gösterilmez.
 19. Akademide yön ve yetenek kararları gencin gerçek portresiyle küçük konuşma penceresinde sunulur. Genç birinci ağızdan “Hocam, hangi yönümü geliştireyim?” / “Hocam, bugün hangi yeteneği çalışayım?” diye sorar. Seçim kaydolunca kısa yanıt verir, yumuşakça kapanır. Aynı menü ziyaretinde en fazla bir otomatik konuşma; diğer gençler portrelerindeki konuşma işaretinden açılır. Kapatılan soru aynı genç/aşama için otomatik tekrarlanmaz; manuel tekrar mümkündür. Eğitim beklemez.
 20. Maç kadrosu başlığının ortasında As / Yedek switch'i bulunur. As görünümü mevcut ilk altı/liberoyu, Yedek görünümü mevcut yedek koleksiyonunu aynı yüzeyde gösterir. Switch kadroyu değiştirmez. Portre/kart anatomisi, yükseltme, pozisyon filtresi ve mevcut oyuncu değişimi korunur. Tahtadan veya transferden oyuncuya yönlendirme, oyuncunun bulunduğu görünümü açar. Rol başına özel yedek ataması ve otomatik rotasyon henüz bu görünüm geçişine dahil değildir.
+21. Tasarım dosyasının eski Melisa alternatif satırı potansiyelli genç kartları için yenilendi. Solda mevcut mor elit yüzey referansı, yanında Leylak / Ametist / İnci / Adaçayı seçenekleri vardır. Aynı gerçek genç, kart anatomisi ve değerler kullanılır. Kart içindeki karakter .86 ölçekle 8px aşağı alınmıştır. Bu değişiklik yalnız laboratuvara aittir; gerçek oyuncu portrelerinin kırpması veya üretim kartları seçilmeden değiştirilmez.
+
+### Potansiyelli genç kartı alternatifleri
+
+Dosya player-card-design-lab-v3.html#elite-design-lab; kaynaklar elite-design-lab.js ve elite-design-preview.js/css. İzole flowDesignPreview belleği üzerinde gerçek bir akademi adayının transfer kartı klonlanır. Mor elit referansı seçilemez; diğer dört kart daha açık, gelişim potansiyelini çağrıştıran mor/adaçayı yüzeyler kullanır. Elit etiketi veya yeni kart anatomisi yoktur. Seçim yalnız dosyadaki seçim satırına yansır. Kontrol test-elite-design-lab.cjs; görseller audits/elite-card-alternatives.png ve potential-cards-mobile.png.
 
 ### As / Yedek görünüm geçişi — 25 Ekim
 
